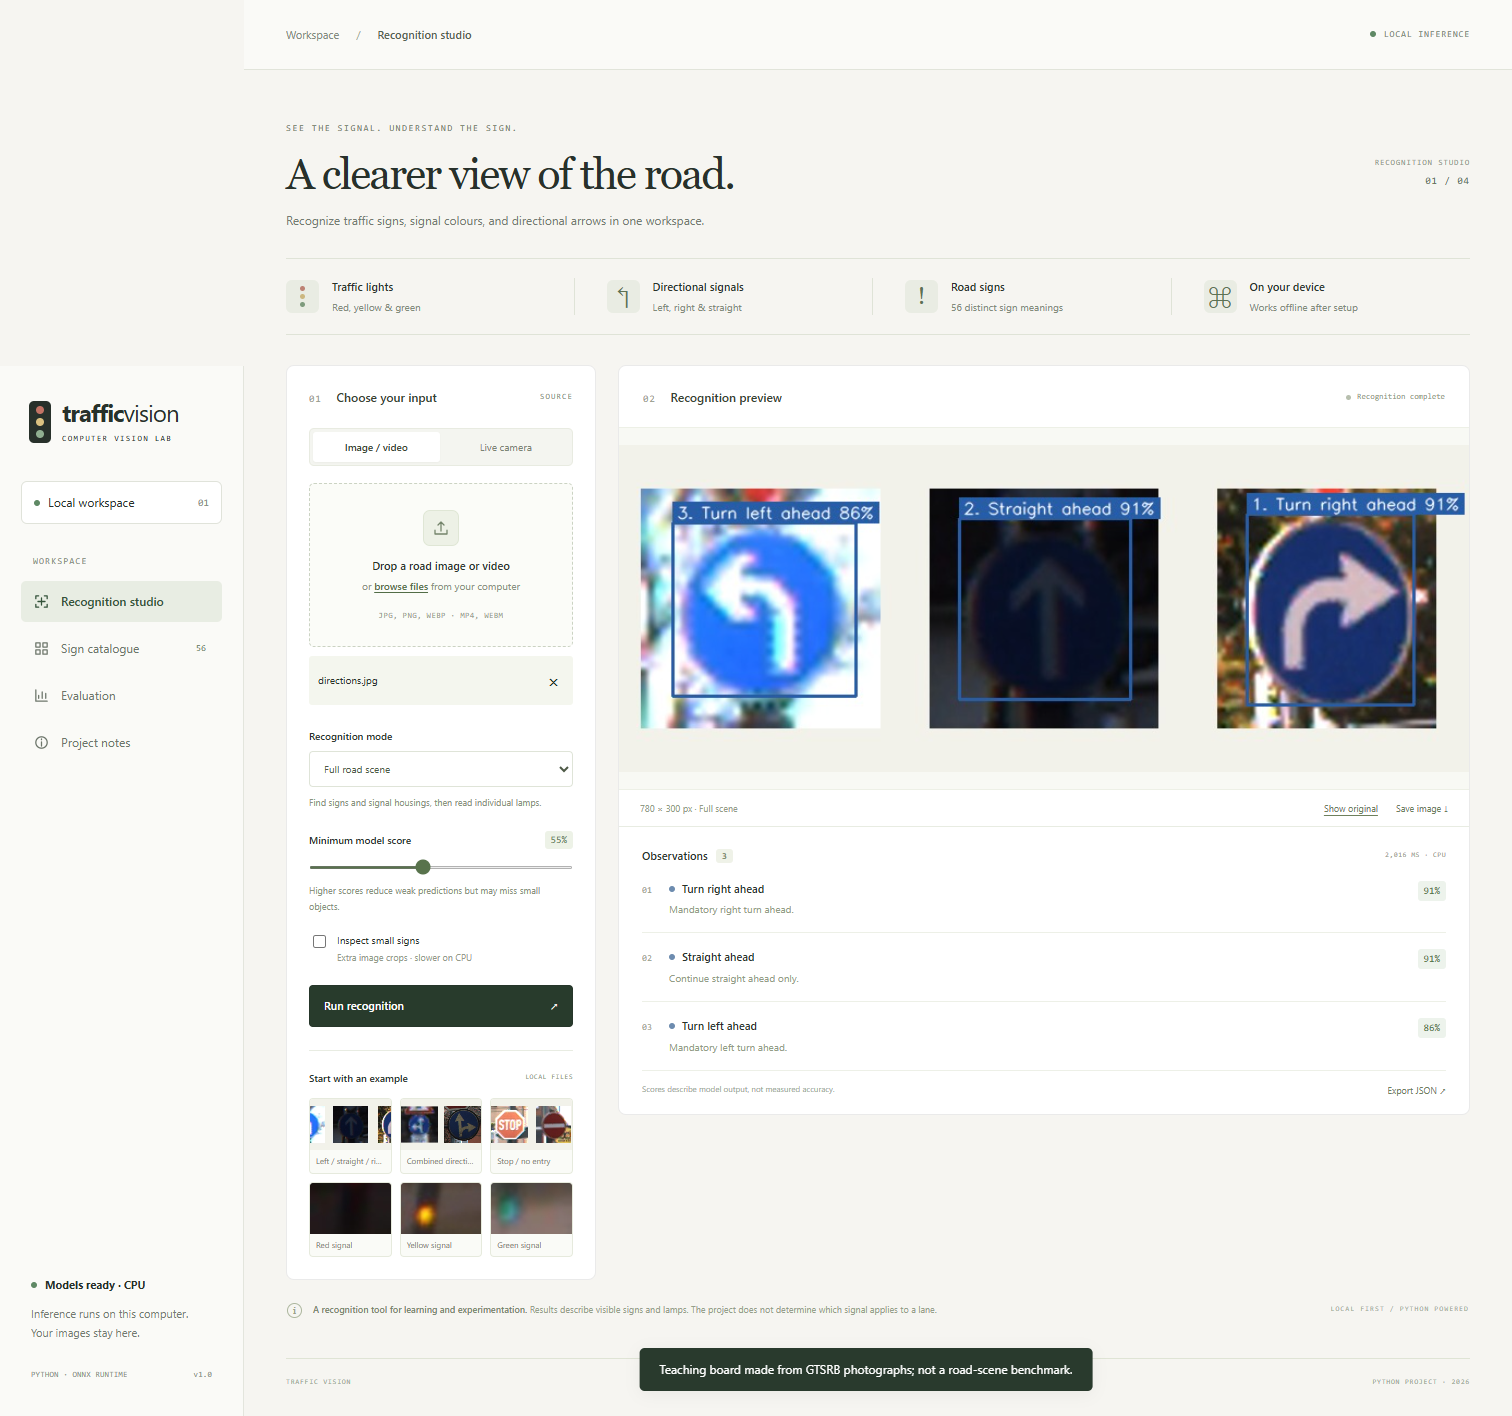
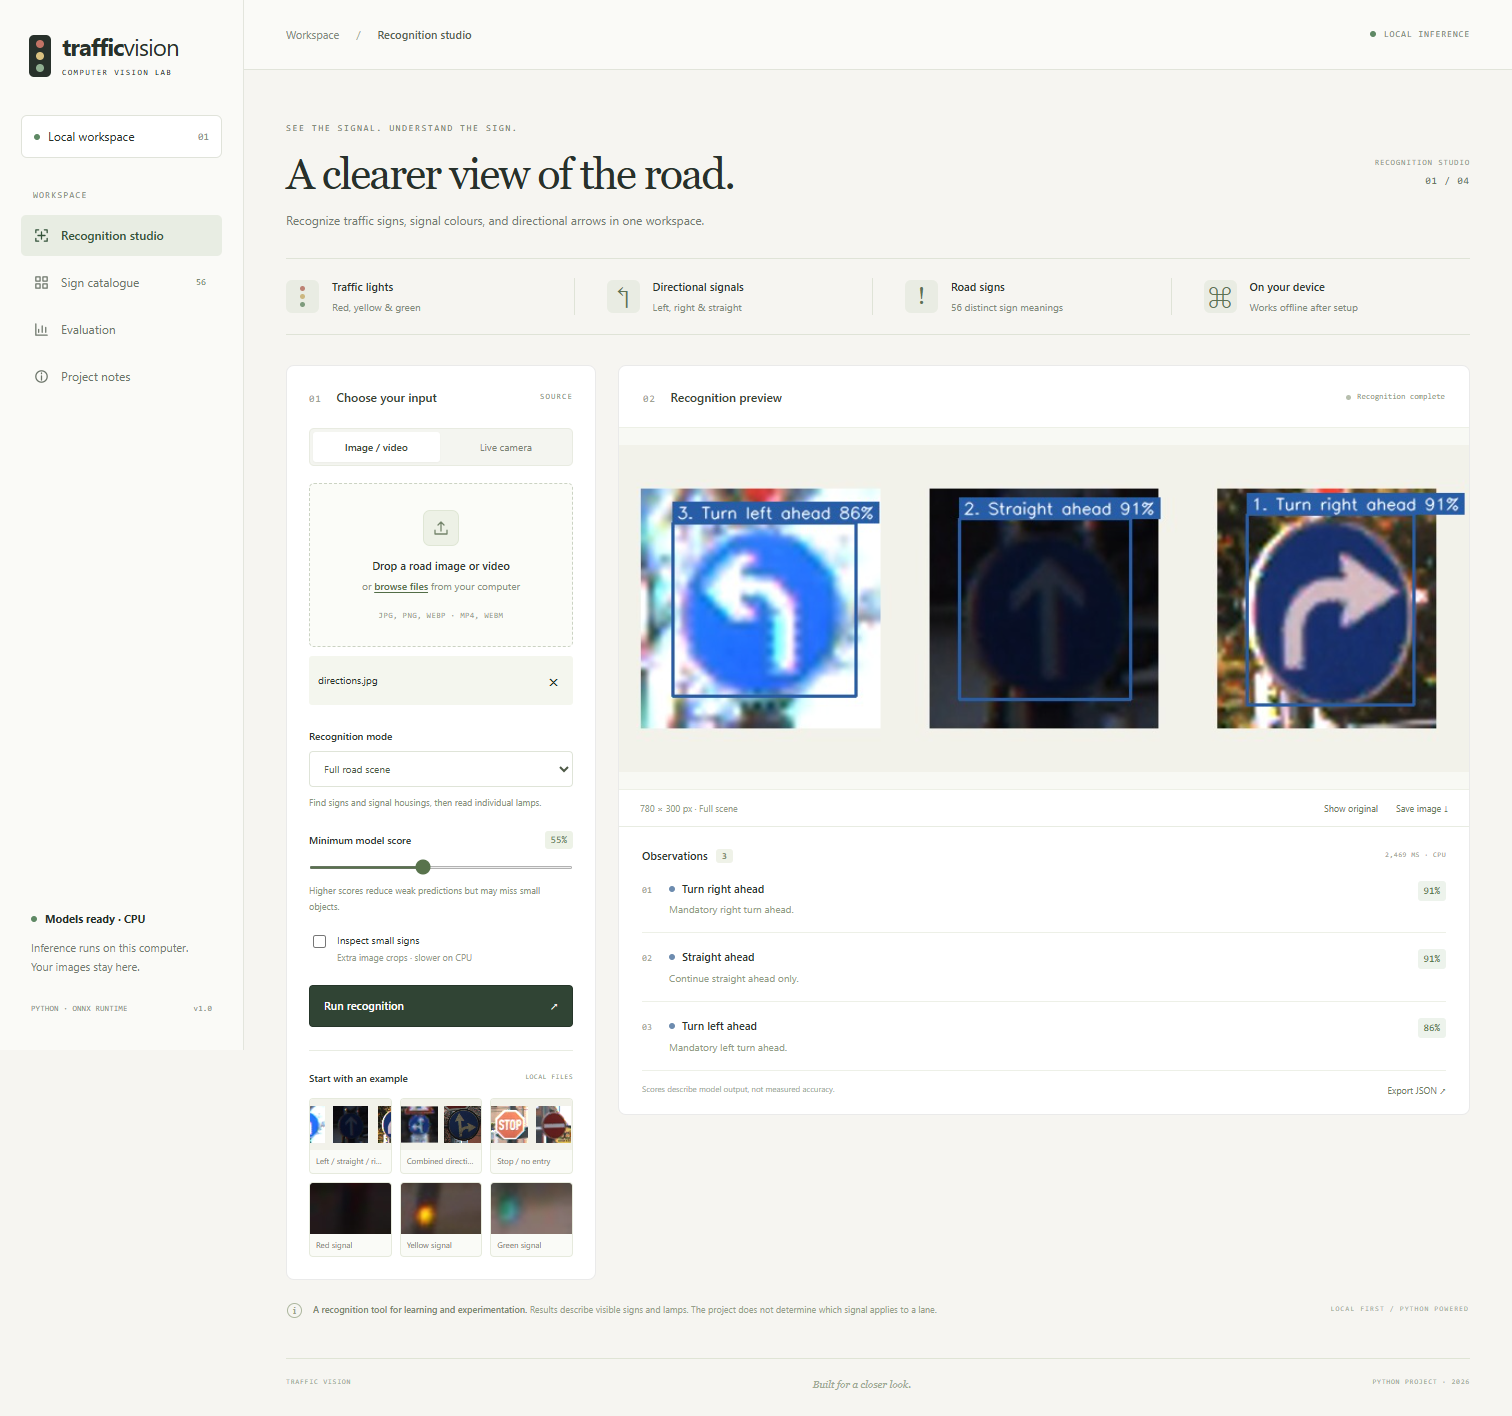
Verify model downloads and finish local validation

diff --git a/scripts/download_models.py b/scripts/download_models.py
@@ -8,7 +8,6 @@ import subprocess
 import sys
 import time
 import urllib.request
-from urllib.error import HTTPError
 from pathlib import Path
 
 ROOT = Path(__file__).resolve().parents[1]
@@ -28,20 +27,18 @@ def download(url, destination, expected):
     for attempt in range(3):
         try:
             print(f"Downloading {destination.name} ...", flush=True)
-            request = urllib.request.Request(url, headers={"User-Agent": "TrafficVision/1.0"})
-            try:
-                with urllib.request.urlopen(request, timeout=120) as response, temp.open("wb") as out:
+            if url.startswith("https://github.com/Aakashsonani/traffic-vision/releases/download/"):
+                if not shutil.which("gh"):
+                    raise RuntimeError("Install GitHub CLI and run gh auth login for private model assets.")
+                subprocess.run(["gh", "release", "download", "models-v1",
+                                "--repo", "Aakashsonani/traffic-vision", "--pattern", destination.name,
+                                "--output", str(temp), "--clobber"], check=True,
+                               capture_output=True, timeout=300)
+            else:
+                request = urllib.request.Request(url, headers={"User-Agent": "TrafficVision/1.0"})
+                with urllib.request.urlopen(request, timeout=60) as response, temp.open("wb") as out:
                     while chunk := response.read(1024 * 1024):
                         out.write(chunk)
-            except HTTPError as exc:
-                if (exc.code in {401, 403, 404} and shutil.which("gh") and url.startswith(
-                        "https://github.com/Aakashsonani/traffic-vision/releases/download/")):
-                    # Private release assets use the user's existing GitHub CLI login.
-                    subprocess.run(["gh", "release", "download", "models-v1",
-                                    "--repo", "Aakashsonani/traffic-vision", "--pattern", destination.name,
-                                    "--output", str(temp), "--clobber"], check=True, capture_output=True)
-                else:
-                    raise
             if sha256(temp) != expected:
                 raise ValueError(f"Checksum mismatch for {destination.name}; file not installed")
             os.replace(temp, destination)

diff --git a/traffic_vision/evaluation.py b/traffic_vision/evaluation.py
@@ -103,7 +103,7 @@ class ObjectMetrics:
                 "accepted_fraction": ratio(self.proposed - self.rejected, self.proposed),
                 "per_class": rows, "targets": {"precision": .95, "recall": .90},
                 "passed_targets": (precision or 0) >= .95 and (recall or 0) >= .90,
-                "per_class_targets_met": bool(rows) and all(
+                "per_class_targets_met": any(row["support"] for row in rows) and all(
                     (row["precision"] or 0) >= .95 and (row["recall"] or 0) >= .90
                     for row in rows if row["support"]),
                 "classes_with_support": sum(row["support"] > 0 for row in rows),

diff --git a/tests/test_model_download.py b/tests/test_model_download.py
@@ -1,0 +1,15 @@
+import io
+
+import pytest
+
+from scripts import download_models
+
+
+def test_checksum_mismatch_does_not_install_a_model(tmp_path, monkeypatch):
+    monkeypatch.setattr(download_models.urllib.request, "urlopen", lambda *_a, **_kw: io.BytesIO(b"bad"))
+    monkeypatch.setattr(download_models.time, "sleep", lambda _: None)
+    target = tmp_path / "model.onnx"
+    with pytest.raises(ValueError, match="Checksum mismatch"):
+        download_models.download("https://example.com/model.onnx", target, "0" * 64)
+    assert not target.exists()
+    assert not target.with_suffix(".onnx.part").exists()

diff --git a/tests/test_evaluation.py b/tests/test_evaluation.py
@@ -30,6 +30,7 @@ def test_negative_scene_false_positive_counts():
     metrics = ObjectMetrics()
     metrics.add([], [{"id": "stop", "bbox": [0, 0, 20, 20], "score": .9}])
     assert metrics.report()["fp"] == 1
+    assert not metrics.report()["per_class_targets_met"]
 
 
 def test_recording_group_leakage_is_rejected():

diff --git a/README.md b/README.md
@@ -4,6 +4,8 @@ A Python college project for **traffic signs, traffic lights and directional sig
 recognition**, running locally in your browser. No inference API, API key or cloud
 upload is used. After setup, inference works offline.
 
+![Traffic Vision recognition workspace](docs/screenshots/studio.png)
+
 ## Start on Windows
 
 Python 3.12 is recommended. Open PowerShell in the project folder:
